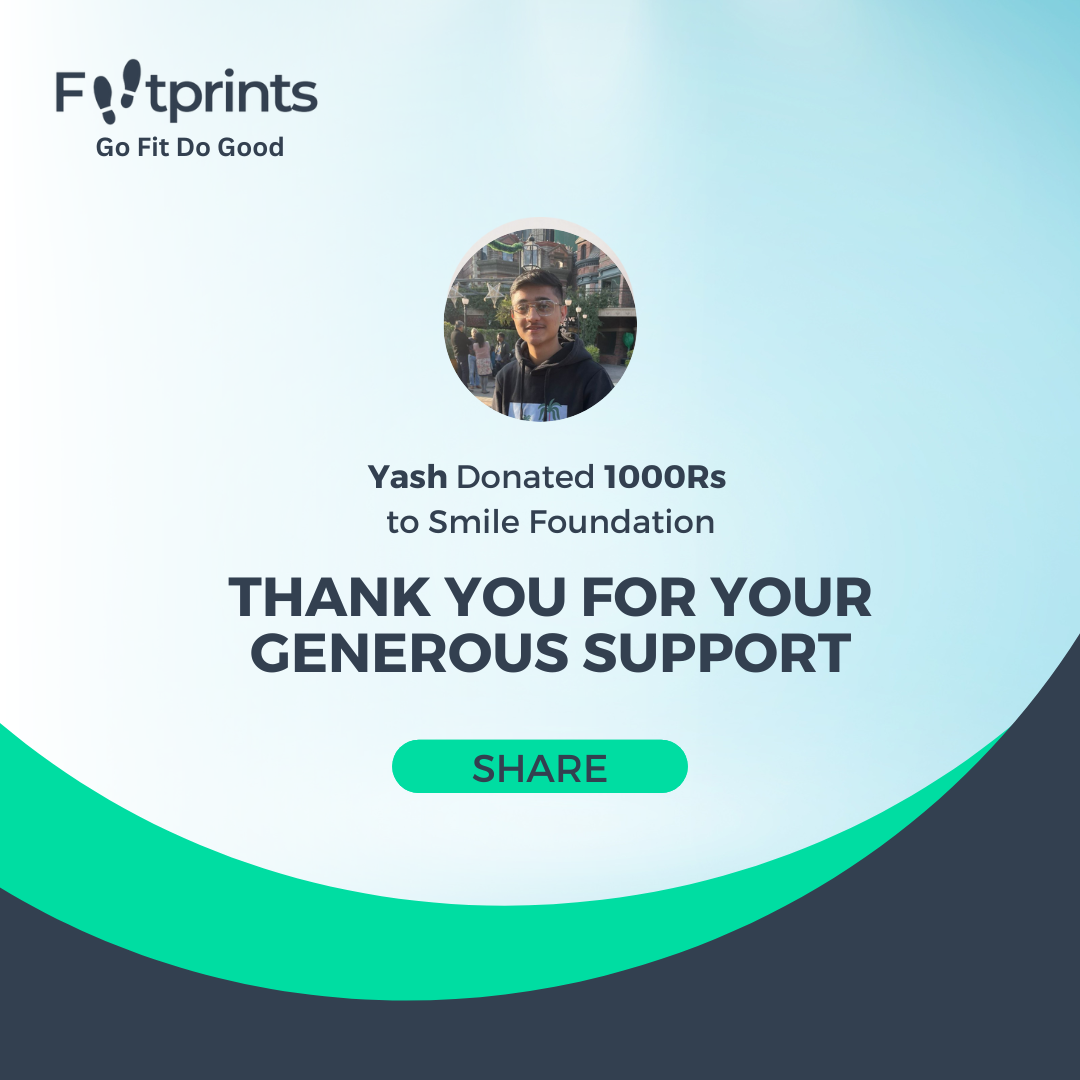
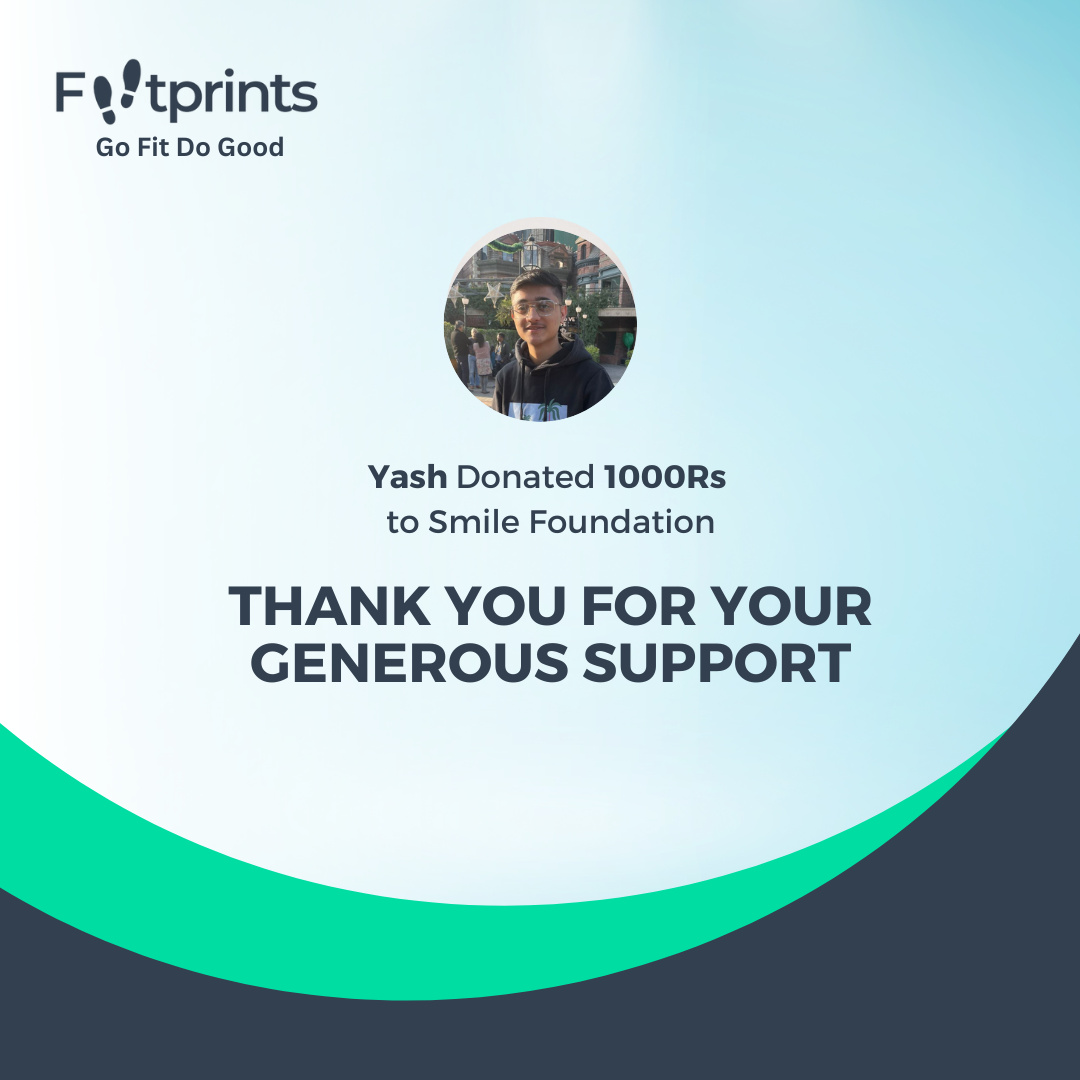
share card added

Changed region(s): [[0.2139, 0.5194, 0.825, 0.6417], [0.3667, 0.6722, 0.6417, 0.7333]]

diff --git a/lib/screens/ngo_profile.dart b/lib/screens/ngo_profile.dart
@@ -3,6 +3,7 @@ import 'package:footprint/const.dart';
 import 'package:footprint/reusable_widgets/button.dart';
 import 'package:footprint/screens/bottom_nav.dart';
 import 'package:footprint/screens/ngo_screen.dart';
+import 'package:rflutter_alert/rflutter_alert.dart';
 
 class NGOProfile extends StatefulWidget {
   const NGOProfile({super.key});
@@ -183,12 +184,30 @@ class _NGOProfileState extends State<NGOProfile> {
                   Padding(
                     padding: const EdgeInsets.only(top: 20),
                     child: Center(
-                        child: PrimaryButton(
-                            text: "            Donate            ",
-                            onpressed: () {
-                              // return DialogCard(context);
-                            },
-                            color: kgreenColor)),
+                      child: PrimaryButton(
+                          text: "            Donate            ",
+                          onpressed: () {
+                            Alert(
+                                context: context,
+                                image: Image.asset("assets/share.png"),
+                                padding: EdgeInsets.only(
+                                    left: 16, right: 16, top: 8),
+                                closeIcon: Icon(Icons.abc, size: 0),
+                                buttons: [
+                                  DialogButton(
+                                    child: Text(
+                                      "Share",
+                                      style: TextStyle(
+                                          color: kgreyColor,
+                                          fontWeight: FontWeight.w500),
+                                    ),
+                                    onPressed: () => null,
+                                    color: kgreenColor,
+                                  )
+                                ]).show();
+                          },
+                          color: kgreenColor),
+                    ),
                   ),
                 ],
               ),

diff --git a/lib/main.dart b/lib/main.dart
@@ -31,7 +31,7 @@ class MyApp extends StatelessWidget {
       ],
       child: MaterialApp(
         debugShowCheckedModeBanner: false,
-        initialRoute: user == null ? WelcomeScreen.id : HomeScreen.id,
+        initialRoute: user == null ? WelcomeScreen.id : BottomNavigation.id,
         routes: {
           WelcomeScreen.id: (context) => WelcomeScreen(),
           AuthPage.id: (context) => AuthPage(),

diff --git a/lib/screens/userProfile_screen.dart b/lib/screens/userProfile_screen.dart
@@ -112,7 +112,7 @@ class _UserProfileScreenState extends State<UserProfileScreen> {
           SizedBox(height: 10),
           InfoTile(
               icon: FontAwesomeIcons.one,
-              title: "Yash Khattar",
+              title: "Yash Khattar (You)",
               subtext: "10213 steps",
               color: kgreyColor),
           InfoTile(
